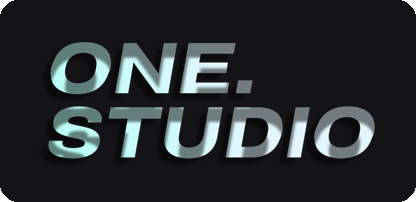
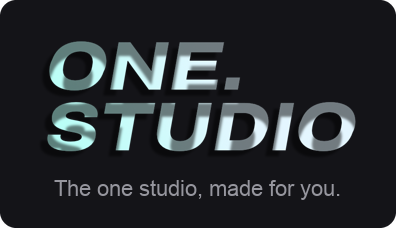
README: spec sheet, developer credits, ONESTUDIO tagline badge

diff --git a/README.md b/README.md
@@ -5,11 +5,23 @@
 
 macOS용 G HUB에는 소리에 반응하는 LightSync가 없고, 서브우퍼를 줄이려면 G HUB가 있어야 합니다. 둘 다 되게 만들었습니다 — 그리고 G HUB에 없는 것들도: 화면 색을 따라가는 조명, 화면 색 + 소리 밝기를 합친 **다이나믹 샘플러**, 하드웨어 EQ 프리셋, 시간·앱 기준 자동 프로필 전환.
 
-## 요구 사항
+## 요구 사항 · 사양
 
-- macOS 14.2 이상 (Core Audio Process Tap)
-- Logitech G560 (USB 연결)
-- **G HUB는 설치되어 있으면 안 됩니다.** 같은 장치를 잡고 있어서 서로 충돌합니다.
+| 항목 | 내용 |
+|---|---|
+| 운영체제 | macOS 14.2 (Sonoma) 이상 |
+| 아키텍처 | Apple Silicon (arm64) |
+| 하드웨어 | Logitech G560 (USB 연결) |
+| 동시 실행 | **G HUB가 설치되어 있으면 안 됩니다** — 같은 장치를 잡아 충돌합니다 |
+| 권한 | 시스템 오디오 녹음 (필수), 화면 기록 (화면·다이나믹 샘플러 사용 시) |
+| 설치 용량 | 약 2.6 MB (다운로드 zip 약 1 MB) |
+| 메모리 | 약 80 MB (화면 샘플러 사용 시 최대 ~110 MB) |
+| CPU (M3 Pro 1코어 기준) | 유휴·조명 끔 약 4% / 사운드 반응 재생 중 약 8% / 다이나믹 샘플러 약 18% |
+| 의존성 | 없음 (외부 라이브러리·런타임 미사용, 순수 Swift + 시스템 프레임워크) |
+| 조명 갱신 | 24 Hz, 변화가 있는 존만 전송 |
+| 배포 | 자체 서명 (Developer ID 공증 없음) · 오픈소스 |
+
+CPU·메모리는 M3 Pro 실측 기준이며 재생 콘텐츠와 디스플레이 수에 따라 달라집니다.
 
 ## 설치
 
@@ -159,4 +171,9 @@ tools/.venv/bin/python tools/g560probe.py restore   # Python 쪽 복구 (factory
 
 `Assets/`의 로고와 제품 사진은 Logitech 소유이며, 비상업적 개인 활용 목적으로만 포함되어 있습니다. 이 프로젝트는 Logitech과 무관합니다.
 
-<p align="center"><img src="docs/img/onestudio.png" width="208" alt="ONESTUDIO"></p>
+## 개발자
+
+- 기획 / 총괄 — 용석희
+- 개발 — 클로드 코드
+
+<p align="center"><img src="docs/img/onestudio.png" width="232" alt="ONESTUDIO — The one studio, made for you."></p>
